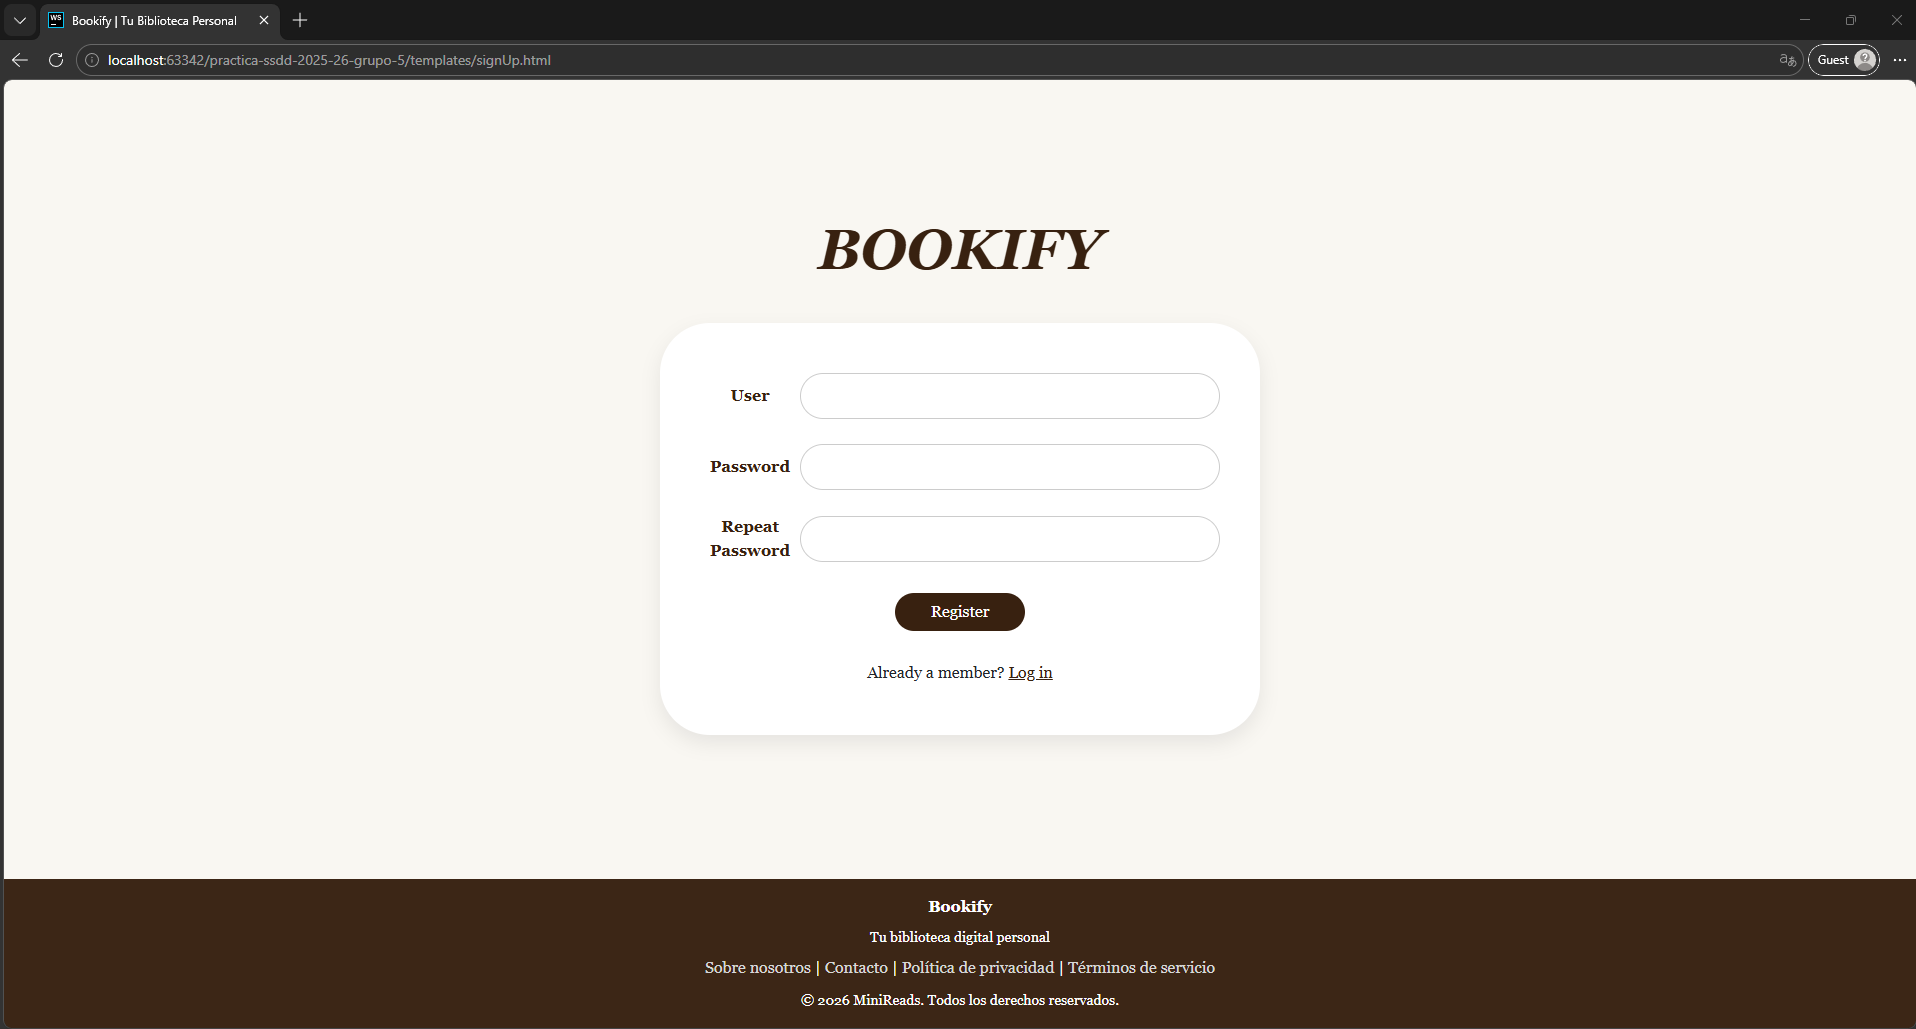
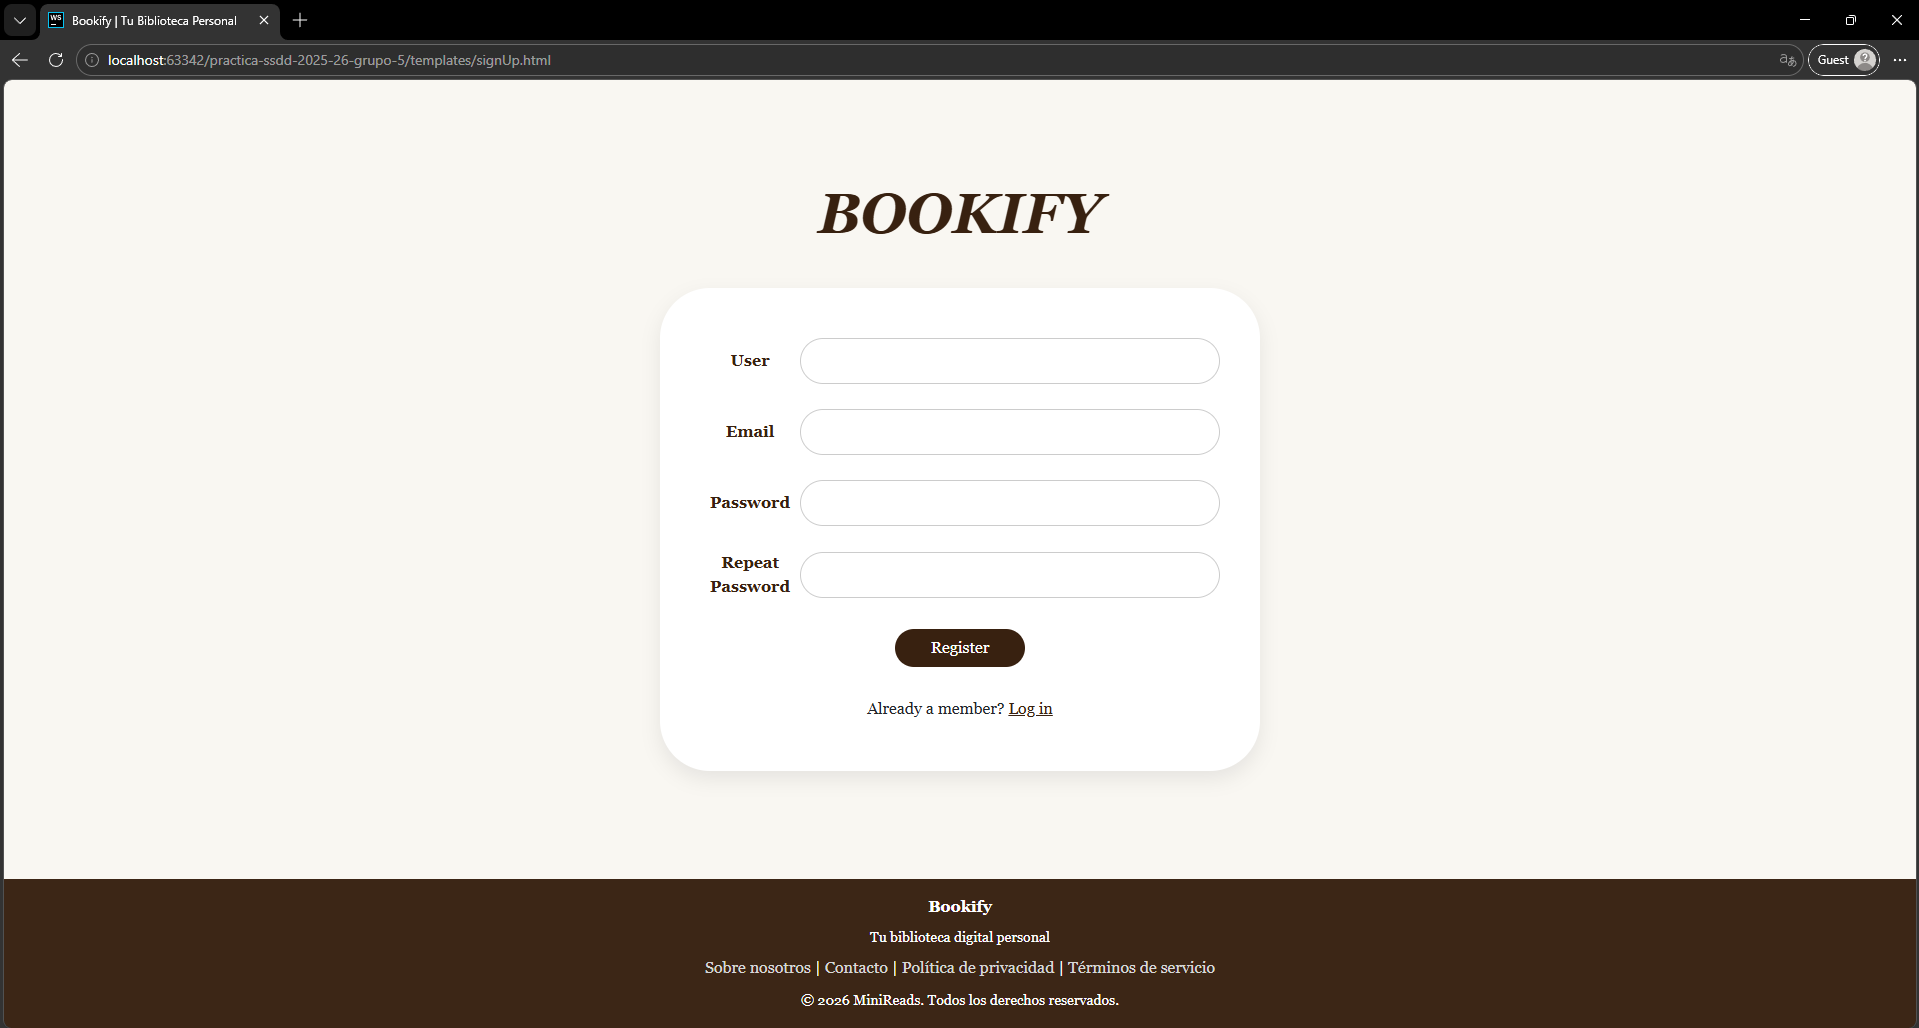
Added some images of the web pages, refactored the README.md and added an email field in the sign up page.

diff --git a/templates/ToS.html b/templates/ToS.html
@@ -45,17 +45,17 @@
 </main>
 
 <footer class="footer-section mt-5 py-4 ">
-  <div class="container text-center">
-    <p class="mb-2 fw-bold">Bookify</p>
-    <p class="small mb-2">Tu biblioteca digital personal</p>
-    <div class="mb-2 row-cols-auto">
-      <a href="aboutUs.html" class="footer-links">Sobre nosotros</a> |
-      <a href="contact.html" class="footer-links">Contacto</a> |
-      <a href="pp.html" class="footer-links">Política de privacidad</a> |
-      <a href="ToS.html" class="footer-links">Términos de servicio</a>
+    <div class="container text-center">
+        <p class="mb-2 fw-bold">Bookify</p>
+        <p class="small mb-2">Tu biblioteca digital personal</p>
+        <div class="mb-2 row-cols-auto">
+            <a href="aboutUs.html" class="footer-links">Sobre nosotros</a> |
+            <a href="contact.html" class="footer-links">Contacto</a> |
+            <a href="pp.html" class="footer-links">Política de privacidad</a> |
+            <a href="ToS.html" class="footer-links">Términos de servicio</a>
+        </div>
+        <small>© 2026 Bookify. Todos los derechos reservados.</small>
     </div>
-    <small>© 2026 Bookify. Todos los derechos reservados.</small>
-  </div>
 </footer>
 </body>
 </html>

diff --git a/templates/signUp.html b/templates/signUp.html
@@ -32,6 +32,13 @@
                 </div>
 
                 <div class="input-group-custom">
+                    <label for="email">Email</label>
+                    <input type="text" id="email">
+                </div>
+
+
+
+                <div class="input-group-custom">
                     <label for="password">Password</label>
                     <input type="password" id="password">
                 </div>

diff --git a/README.md b/README.md
@@ -76,12 +76,58 @@ Diagrama que muestra cómo se navega entre las diferentes páginas de la aplicac
 
 ### **Capturas de Pantalla y Descripción de Páginas**
 
-#### **1. Página Principal / Home**
-![Página Principal](images/home-page.png)
+#### **1. Main page / Home**
+![Página Principal](static/imgs/navigation_imgs/welcome-main.png)
 
-> [Descripción breve: Ej: "Página de inicio que muestra los productos destacados, categorías principales y un banner promocional. Incluye barra de navegación y acceso a registro/login para usuarios no autenticados."]
+> Home page showing a welcome message, recommended books, and the most-read books at the moment. It includes a navigation bar and access to registration/login for unauthenticated users, as well as access to the personal library. Towards the bottom of the page, you can find contact information, terms, and policies.
+#### **2. Log in Page**
 
-#### **AQUÍ AÑADIR EL RESTO DE PÁGINAS**
+![Página Log In](static/imgs/navigation_imgs/login.png)
+
+> Login page for registered users. Includes fields to enter username and password, as well as a link to recover the password if forgotten. There is also a link to register if the user does not have an account.
+#### **3. Register Page**
+![Página Registro](static/imgs/navigation_imgs/signup.png)
+> Registration page for new users. Includes fields to enter username, email, password, and password confirmation. There is also a link to log in if the user already has an account.
+
+#### **4. User Profile Page**
+![User Profile page](static/imgs/navigation_imgs/profile.png)
+> User profile page showing personal information, reading statistics, and a section to manage collections.
+#### **5. My Library Page**
+![My Library page](static/imgs/navigation_imgs/myLibrary.png)
+> User's personal library page, where they can view and manage their book collections.
+
+#### **6. Book Description Page**
+![Book Description page](static/imgs/navigation_imgs/bookDescription.png)
+> Description page for a specific book, showing details such as title, author, synopsis, genre, and a user reviews section. It also includes a button to add the book to a personal collection and a star rating system.
+#### **7. Admin Panel Page**
+> Administration panel page, accessible only to users with an administrator role. Includes sections to manage books, users, and reviews.
+##### **7.1 Admin Panel Page**
+![Admin Panel page](static/imgs/navigation_imgs/admin1.png)
+> Book management section, where the administrator can add, edit, or delete books from the catalog. Includes a form to enter book details and a table with the list of registered books.
+![Admin Panel page](static/imgs/navigation_imgs/register-book.png)
+##### **7.2 Admin Panel Page**
+![Admin Panel page](static/imgs/navigation_imgs/admin2.png)
+> Review management section, where the administrator can moderate reviews posted by users, deleting those that are inappropriate or violate platform policies. Includes a list of reviews and action options for each.
+##### **7.3 Admin Panel Page**
+![Admin Panel page](static/imgs/navigation_imgs/admin3.png)
+> User management section, where the administrator can view the list of registered users, edit their roles, or delete accounts if necessary. Includes a table with user information and action options.
+#### **8. Terms of Service Page**
+![Terms of Service page](static/imgs/navigation_imgs/ToS.png)
+> Terms of Service page detailing the platform's conditions of use, including rights.
+
+#### **9. Privacy Policy Page**
+![Privacy Policy page](static/imgs/navigation_imgs/pp.png)
+> Privacy Policy page explaining how data is collected, used, and protected.
+
+#### **10. Contact Page**
+![Contact page](static/imgs/navigation_imgs/contact.png)
+> Contact page providing a form for users to send inquiries or feedback to the team.
+
+#### **11. About us Page**
+![About us page](static/imgs/navigation_imgs/aboutUs.png)
+> "About us" page presenting the development team, the project's mission and vision, and any other relevant information regarding the platform's origin and purpose.
+
+
 
 ### **Participación de Miembros en la Práctica 1**
 
